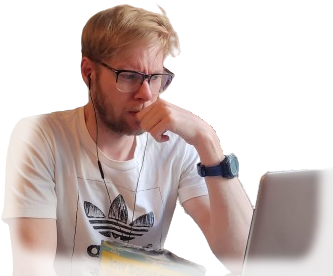
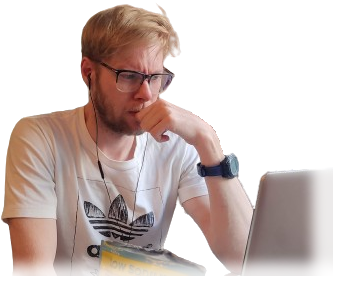
cambios

diff --git a/public/css/style.css b/public/css/style.css
@@ -19,8 +19,15 @@ body{
     /* height: 100vh; */
     /* overflow: hidden; */
     font-family: "Roboto", sans-serif;
+    background-image: url(../img/bg/pexels-la-miko-3616764.jpg);
+    background-position: center;
+    background-repeat: no-repeat;
+    background-size: cover;
+    /* transition: all 1s ease; */
+}
 
-    transition: all 1s ease;
+a{
+    text-decoration: none;
 }
 
 .hide{
@@ -29,10 +36,7 @@ body{
 
 #home{
     height: 100vh;
-    background-image: url(../img/bg/pexels-la-miko-3616764.jpg);
-    background-position: center;
-    background-repeat: no-repeat;
-    background-size: cover;
+    
 }
 
 #hero-image{
@@ -127,7 +131,7 @@ body{
 .links-container a{
     position: relative;
     cursor: pointer;
-    text-decoration: none;
+    
     color: #00000024;
     transition: all 0.4s cubic-bezier(.17,-0.11,.89,1.25);
     letter-spacing: -3px;
@@ -136,7 +140,7 @@ body{
     writing-mode:sideways-lr;/* should be the one */  
     -webkit-writing-mode: vertical-lr;
     
-    margin: 0px calc(1vh - 40px);
+    margin: 0px calc(1vh - 30px);
     font-size: calc(3vh + 7vmin);
 }
 
@@ -185,19 +189,19 @@ body{
 
 @media screen and (max-height:900px) {
     .links-container a{ 
-        margin: 0px calc(1vh - 28px);
+        margin: 0px calc(1vh - 30px);
     }
 }
 
 @media screen and (max-height:620px) {
     .links-container a{ 
-        margin: 0px calc(1vh - 22px);
+        margin: 0px calc(1vh - 20px);
     }
 }
 
 @media screen and (max-height:500px) {
     .links-container a{ 
-        margin: 0px calc(1vh - 15px);
+        margin: 0px calc(1vh - 13px);
     }
 }
 
@@ -339,7 +343,7 @@ body{
 }
 
     #worksModal .carousel-item{
-        border-radius: 3px;
+        border-radius: 2px;
         transition: transform 1500ms ease, opacity .5s ease-out
     }
 
@@ -359,7 +363,6 @@ body{
     }
 
     #worksModal .carousel-item .info a{
-        text-decoration: none;
         color: #00000044;
         font-weight: 400;
         font-family: "Archivo Black", sans-serif;
@@ -464,7 +467,7 @@ body{
 
 
 /* Contact */
-#contactModal .modal-body{
+/* #contactModal .modal-body{
     background: rgb(76,76,75);
     background: linear-gradient(137deg, rgba(255, 255, 255, 0.65) 10%, rgb(175, 175, 175) 54%);
 
@@ -486,15 +489,52 @@ body{
 
 #contactModal .image{
     flex: 2;
-}
+} */
 
 /* pruebas */
 #contacto{
-    height: 100vh;
+    height: 50vh;
     padding: 50px;
-    transition: opacity 0.5s ease;
+    background: url('../img/bg/fondo2.png');
+    background-position: center;
+    background-repeat:  no-repeat;
+    background-position: cover;
+    color: rgb(222, 222, 222);
 }
 
-.hideja{
+#contacto .container{
+    transition: opacity 0.7s ease;
+}
+
+.opacity0{
     opacity: 0;
+}
+
+.arrow-up{
+    position: absolute;
+    top: 8px;
+    right: 0px;
+    width: 60px;
+    transform: rotate(-90deg);
+    filter: brightness(50%) invert();
+}
+
+.animate_arrow-up{
+    animation: arrow-up 0.8s ease-in-out infinite;
+}
+
+.animate_arrow-up:hover{
+    animation-play-state: paused;
+}
+
+@keyframes arrow-up{
+    0% {
+        transform: rotate(-90deg) translate(0px, 0);
+    }
+    50% {
+        transform: rotate(-90deg) translate(7px, 0);
+    }
+    100% {
+        transform: rotate(-90deg) translate(0px, 0);
+    }
 }

diff --git a/index.html b/index.html
@@ -22,11 +22,11 @@
 	<body>
 		<!-- <img id="sunglasses" src="public/img/sunglasses.png" alt="" /> -->
         <!-- <div class="glitch"> -->
-        <div>
-            <img id="hero-image" class="" src="public/img/face-photo1.png" alt="" />
-        </div>
-
         <section id="home">
+            <div>
+                <img id="hero-image" class="" src="public/img/face-photo1.png" alt="" />
+            </div>
+
             <div class="container">
                 <div class="links-container">
                     <a class="linksBtn" id="about-btn" data-bs-toggle="modal" data-bs-target="#aboutModal">sobre mí</a>
@@ -41,12 +41,13 @@
             <div class="container">
                 <div class="contact">
                     <div class="info">
+                        <a href="#home"><img src="./public/img/arrow.svg" class="arrow-up animate_arrow-up" alt="arrow-up"></a>
                         <h2>CONTACTO</h2>
                         <p>Email: <a href="mailto:juanpablochoternasty@gmail.com">juanpablochoter@gmail.com</a></p>   
                         <p></p>
                     </div>
                     <div class="image">
-                        <img src="./public/img/contact2.png" alt="">
+                        
                     </div>
                 </div>
             </div>

diff --git a/public/js/scripts.js b/public/js/scripts.js
@@ -9,6 +9,21 @@ window.addEventListener("load", (e)=>{
 })
 
 
+linksBtns.forEach(btn=>{
+    btn.addEventListener('click', (e)=>{
+        const currentScrollPos = Math.ceil(window.scrollY)
+
+        if (currentScrollPos > 0) {
+            window.scrollTo(0,0)
+        }
+
+        if(e.target.classList.contains("onClick_contact-btn")){
+            e.preventDefault()
+        }
+    })
+})
+
+
 let glitchAnimation;
 linksBtns.forEach(btn=>{
     btn.addEventListener("mouseover", (e)=>{
@@ -107,10 +122,10 @@ window.addEventListener('scroll', () => {
     }
 
     if (currentScrollPos < lastScrollPos && currentScrollPos < 110) {
-        document.getElementById('contacto').classList.add('hideja');
+        document.querySelector('#contacto .container').classList.add('opacity0');
     }else{
-        if (document.getElementById('contacto').classList.contains('hideja')) {
-            document.getElementById('contacto').classList.remove('hideja');
+        if (document.querySelector('#contacto .container').classList.contains('opacity0')) {
+            document.querySelector('#contacto .container').classList.remove('opacity0');
         }
     }
 
